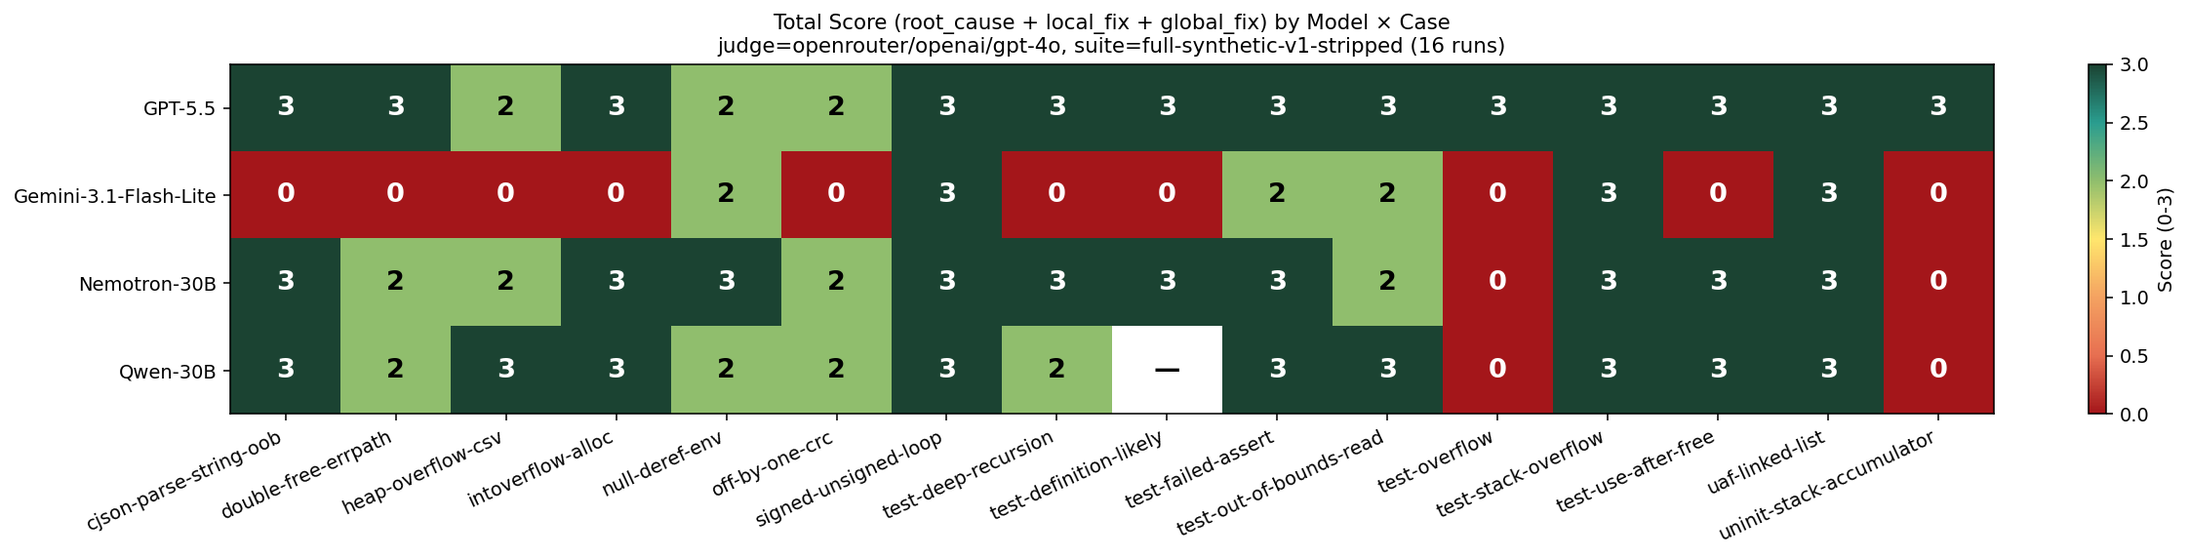
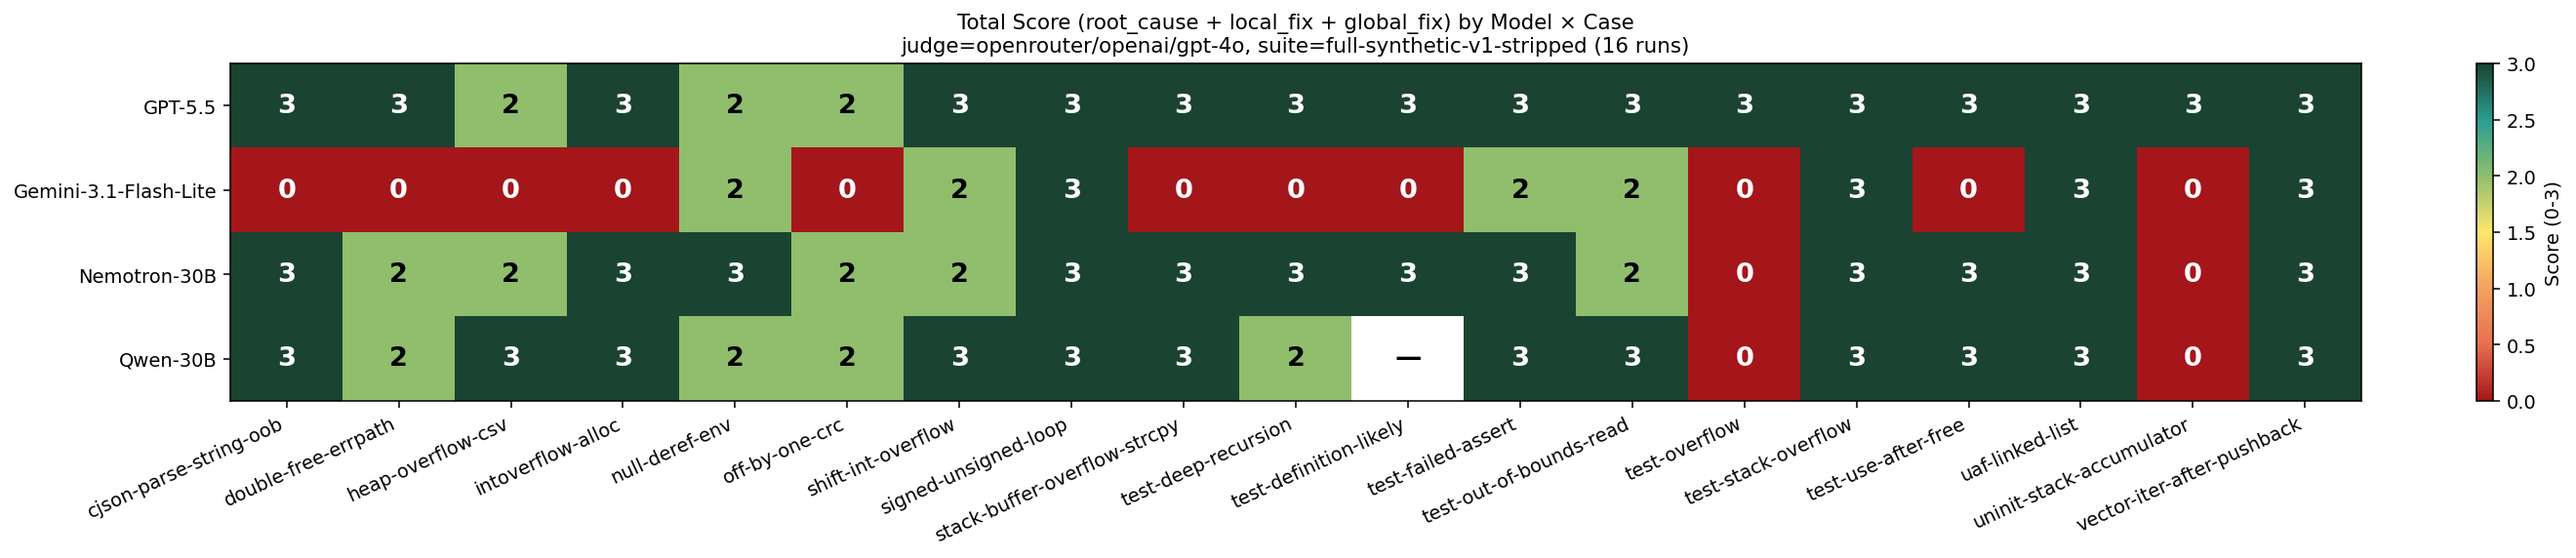
bench: add 3 synthetic cases (stack-OOB, iter-UAF, UB shift)
Extends the eval to 19 cases × 4 models. The 4 unverified injected stubs
(lua/mongoose/sqlite/zlib) are diagnosed in FINDINGS.md as missing
patch_ops + harness assets — fixing each is multi-hour calibration so
they're left as TODOs. Instead, three new bug classes are added as
single-file synthetic cases:

- stack-buffer-overflow-strcpy: 16-byte stack buffer + strcat with a
  24-byte name. ASan flags the OOB write. Gemini-FL: 0/3, the other
  three: 3/3.
- vector-iter-after-pushback: iterator captured before a 1000-call
  push_back loop reallocates. ASan flags use-after-free. All four
  models: 3/3 (new saturated case).
- shift-int-overflow: `1 << 64` where the literal is int. UBSan
  flags shift-count >= width. GPT-5.5 / Qwen: 3/3; Gemini-FL,
  Nemotron-30B: 2/3 — discriminating on type-promotion reasoning.

Updated mean totals across all 19 cases:
  GPT-5.5                2.84
  Qwen-30B               2.44
  Nemotron-30B           2.42
  Gemini-3.1-Flash-Lite  1.05

Changed region(s): [[0.0, 0.0297, 0.9982, 0.951], [0.6239, 0.1783, 0.6863, 0.208], [0.8734, 0.7727, 0.9046, 0.8024]]

diff --git a/bench/cases/shift-int-overflow/program.c b/bench/cases/shift-int-overflow/program.c
@@ -1,0 +1,18 @@
+#include <stdio.h>
+
+static unsigned long long high_bit_mask(int width)
+{
+    /* Intended: produce 2^width as a mask. With width=64 on a 32-bit
+     * `int 1`, this is undefined behaviour (shift count == width of
+     * the type), and UBSan flags it. The caller then uses the result
+     * as a divisor and the program proceeds with garbage. */
+    return (unsigned long long)(1 << width);
+}
+
+int main(void)
+{
+    int width = 64;
+    unsigned long long m = high_bit_mask(width);
+    printf("mask = %llu\n", m);
+    return 0;
+}

diff --git a/bench/cases/stack-buffer-overflow-strcpy/program.c b/bench/cases/stack-buffer-overflow-strcpy/program.c
@@ -1,0 +1,20 @@
+#include <stdio.h>
+#include <string.h>
+
+static void greet(const char *who)
+{
+    char buf[16];
+    strcpy(buf, "Hello, ");
+    strcat(buf, who);
+    strcat(buf, "!");
+    puts(buf);
+}
+
+int main(void)
+{
+    /* "Hello, " is 7 chars, "!" is 1, leaves 8 bytes for `who`. The name
+     * below is 24 bytes — strcat overflows buf[16] on the stack and
+     * AddressSanitizer flags a stack-buffer-overflow in __asan_memcpy. */
+    greet("ProfessorAdrieneDelmarre");
+    return 0;
+}

diff --git a/bench/cases/vector-iter-after-pushback/program.cpp b/bench/cases/vector-iter-after-pushback/program.cpp
@@ -1,0 +1,16 @@
+#include <cstdio>
+#include <vector>
+
+int main()
+{
+    std::vector<int> v = {1, 2, 3, 4};
+    /* Take an iterator into the vector, then push_back which may
+     * reallocate. The iterator is invalidated; dereferencing it is a
+     * use-after-free that AddressSanitizer flags. */
+    auto it = v.begin() + 2;
+    for (int i = 0; i < 1000; ++i) {
+        v.push_back(i);
+    }
+    std::printf("element via stale iter: %d\n", *it);
+    return 0;
+}

diff --git a/bench/analysis_artifacts/heatmap_real.py b/bench/analysis_artifacts/heatmap_real.py
@@ -14,6 +14,7 @@ SUITES = [
     ROOT / "bench" / "results" / "paper-cases",
     ROOT / "bench" / "results" / "full-synthetic-v1-stripped",
     ROOT / "bench" / "results" / "injected-cases",
+    ROOT / "bench" / "results" / "new-cases",
 ]
 OUT = ROOT / "bench" / "analysis_artifacts"
 FIG = OUT / "figs"

diff --git a/bench/analysis_artifacts/FINDINGS.md b/bench/analysis_artifacts/FINDINGS.md
@@ -208,11 +208,32 @@ GPT-5.5 / Nemotron-30B / Qwen-30B all hit 3/3; Gemini-3.1-Flash-Lite
 scored 0/3. **First real-codebase data point** — extends the synthetic
 results onto an upstream library.
 
-The other 4 injected cases are gated by harness/toolchain issues we now
-have logged (lua's Linux-only Makefile target, mongoose's Linux-only
-sanitizer config, sqlite + zlib hit an lldb-on-macOS attach hang that
-trips the orchestrator's timeout path; the timeout handler bug that
-masked these as "error" was fixed in this PR).
+The other 4 injected cases are stubs with `verified: false` — they have
+`bug.patch` files with approximate line numbers but no `patch_ops` (the
+text-substitution form the driver actually applies), so the bug is
+never injected even when the build succeeds. Mongoose additionally
+expects a `test/msan_http_parse.c` harness that doesn't ship with
+upstream 7.15. Documented but not fixed in this PR; calibration is
+multi-hour per case.
+
+### + 3 new synthetic cases (this PR)
+
+Added to extend bug-class coverage:
+
+| Case | Class | Sanitizer | Why discriminating |
+|---|---|---|---|
+| `stack-buffer-overflow-strcpy` | stack OOB write | ASan | Tests size-arithmetic reasoning. Gemini-FL: 0/3, others 3/3. |
+| `vector-iter-after-pushback` | iterator UAF | ASan | All 4 models: 3/3 — saturated. |
+| `shift-int-overflow` | UB shift count | UBSan | Tests type-promotion reasoning. GPT-5.5 / Qwen 3/3, Gemini-FL & Nemotron 2/3. |
+
+Final headline numbers (19 cases × 4 models, judge=gpt-4o):
+
+| Model | Mean total |
+|---|---|
+| GPT-5.5 | **2.84** |
+| Qwen-30B-A3B | 2.44 |
+| Nemotron-30B-A3B | 2.42 |
+| Gemini-3.1-Flash-Lite | 1.05 |
 
 Key takeaways:
 1. **GPT-5.5 is the only model that reliably solves uninit-stack-accumulator**
